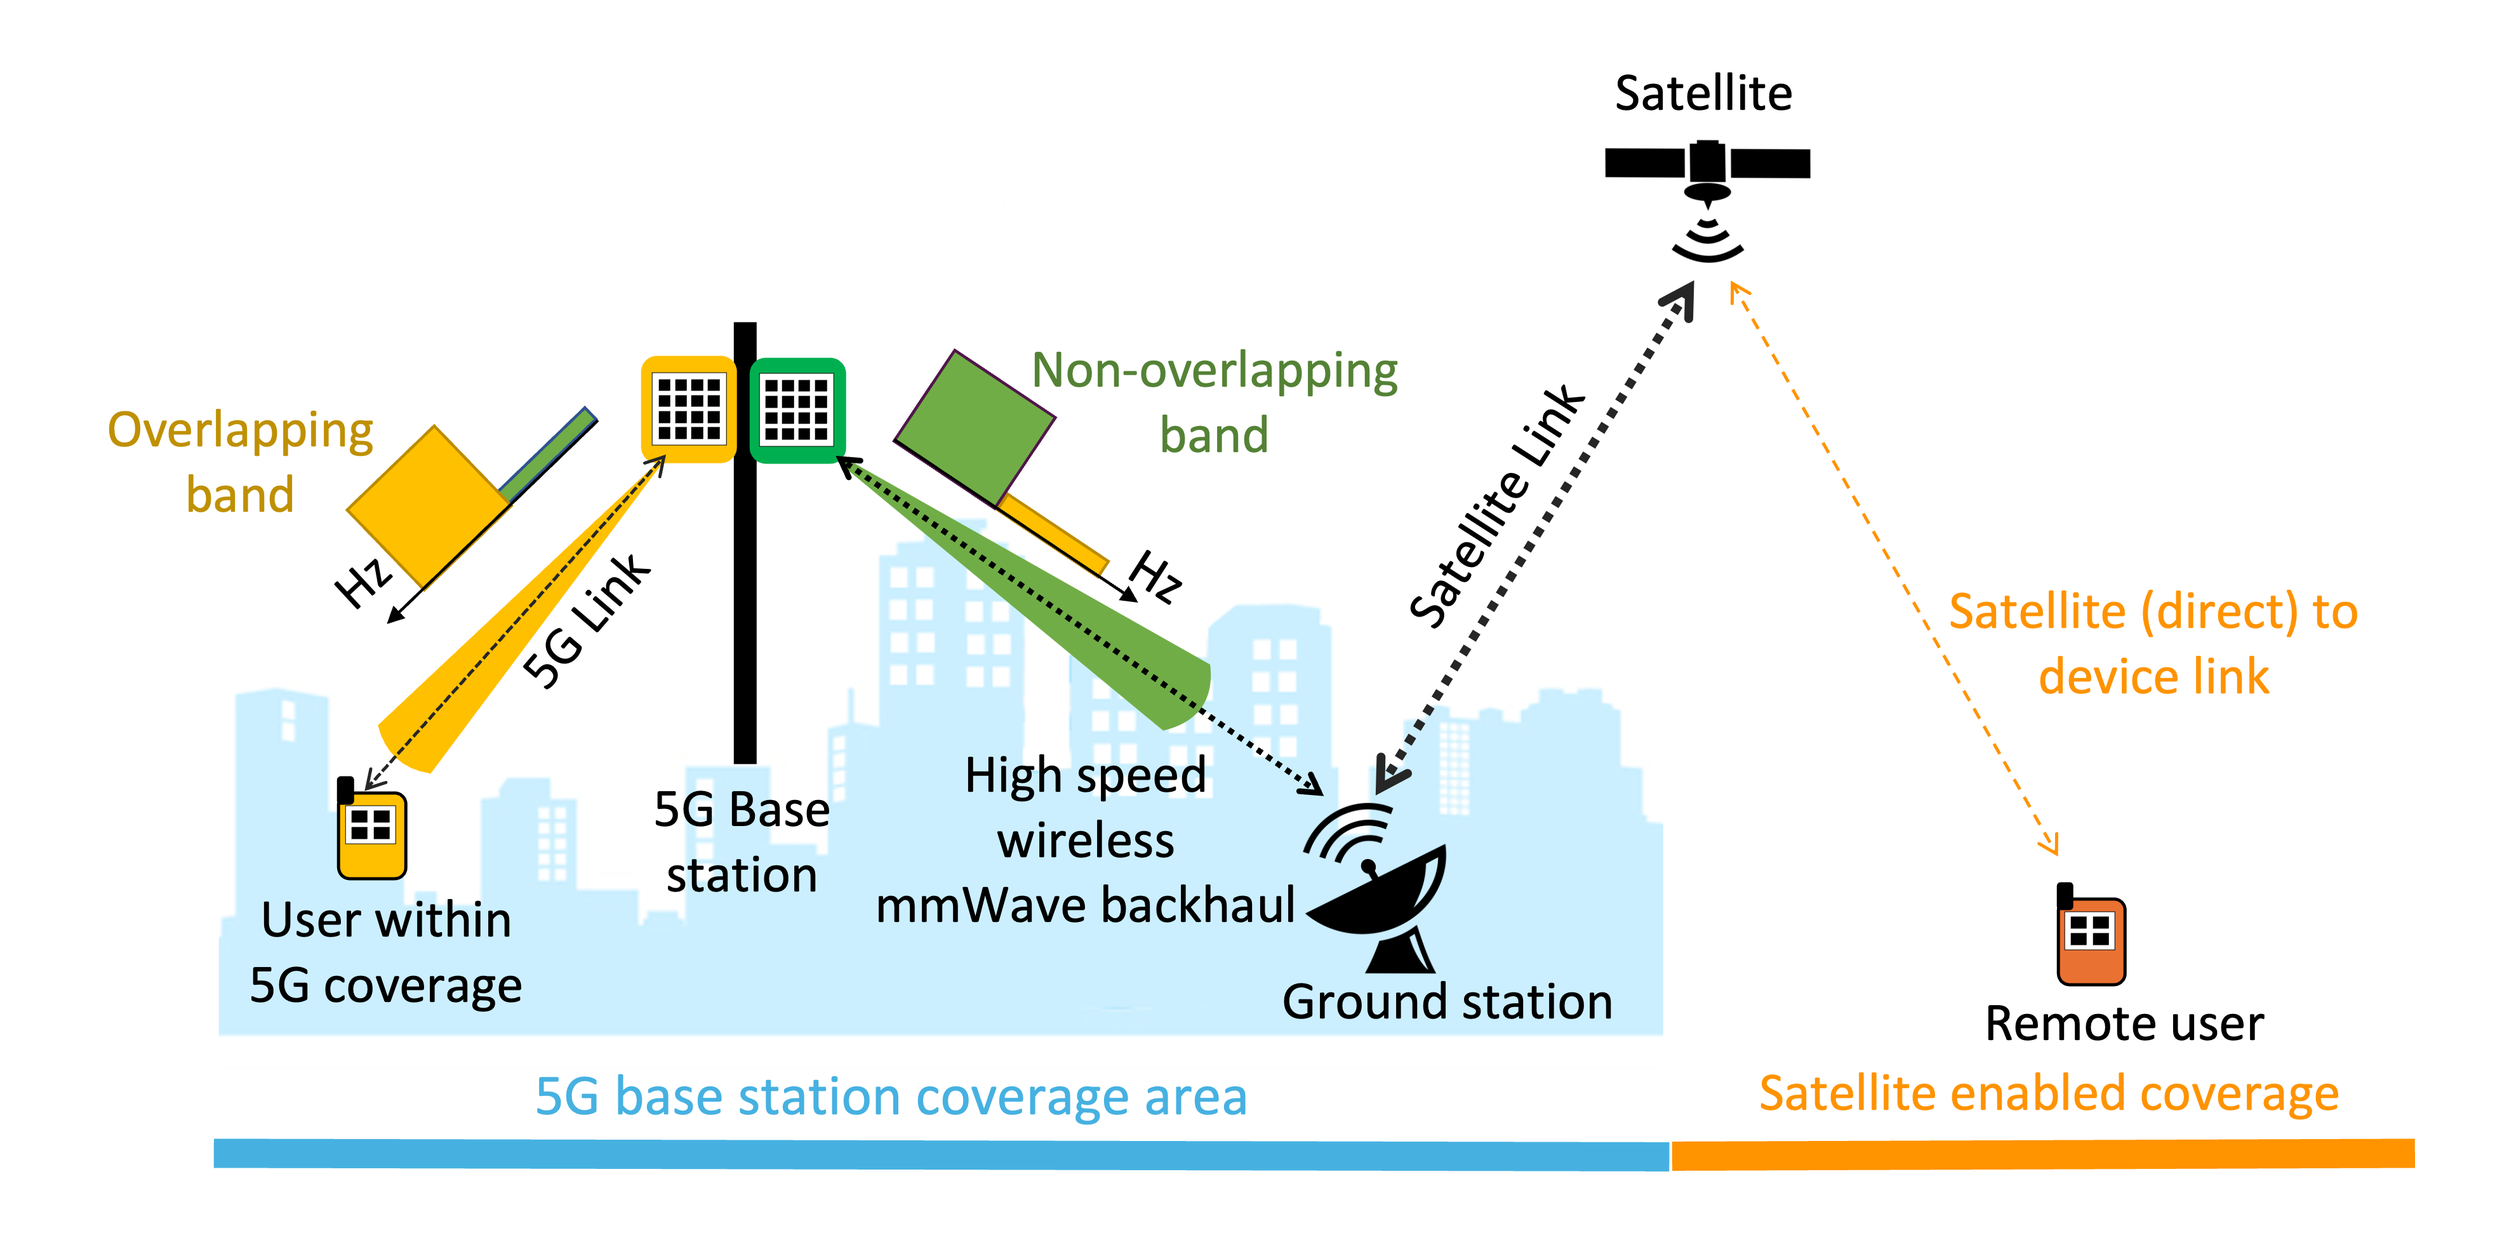
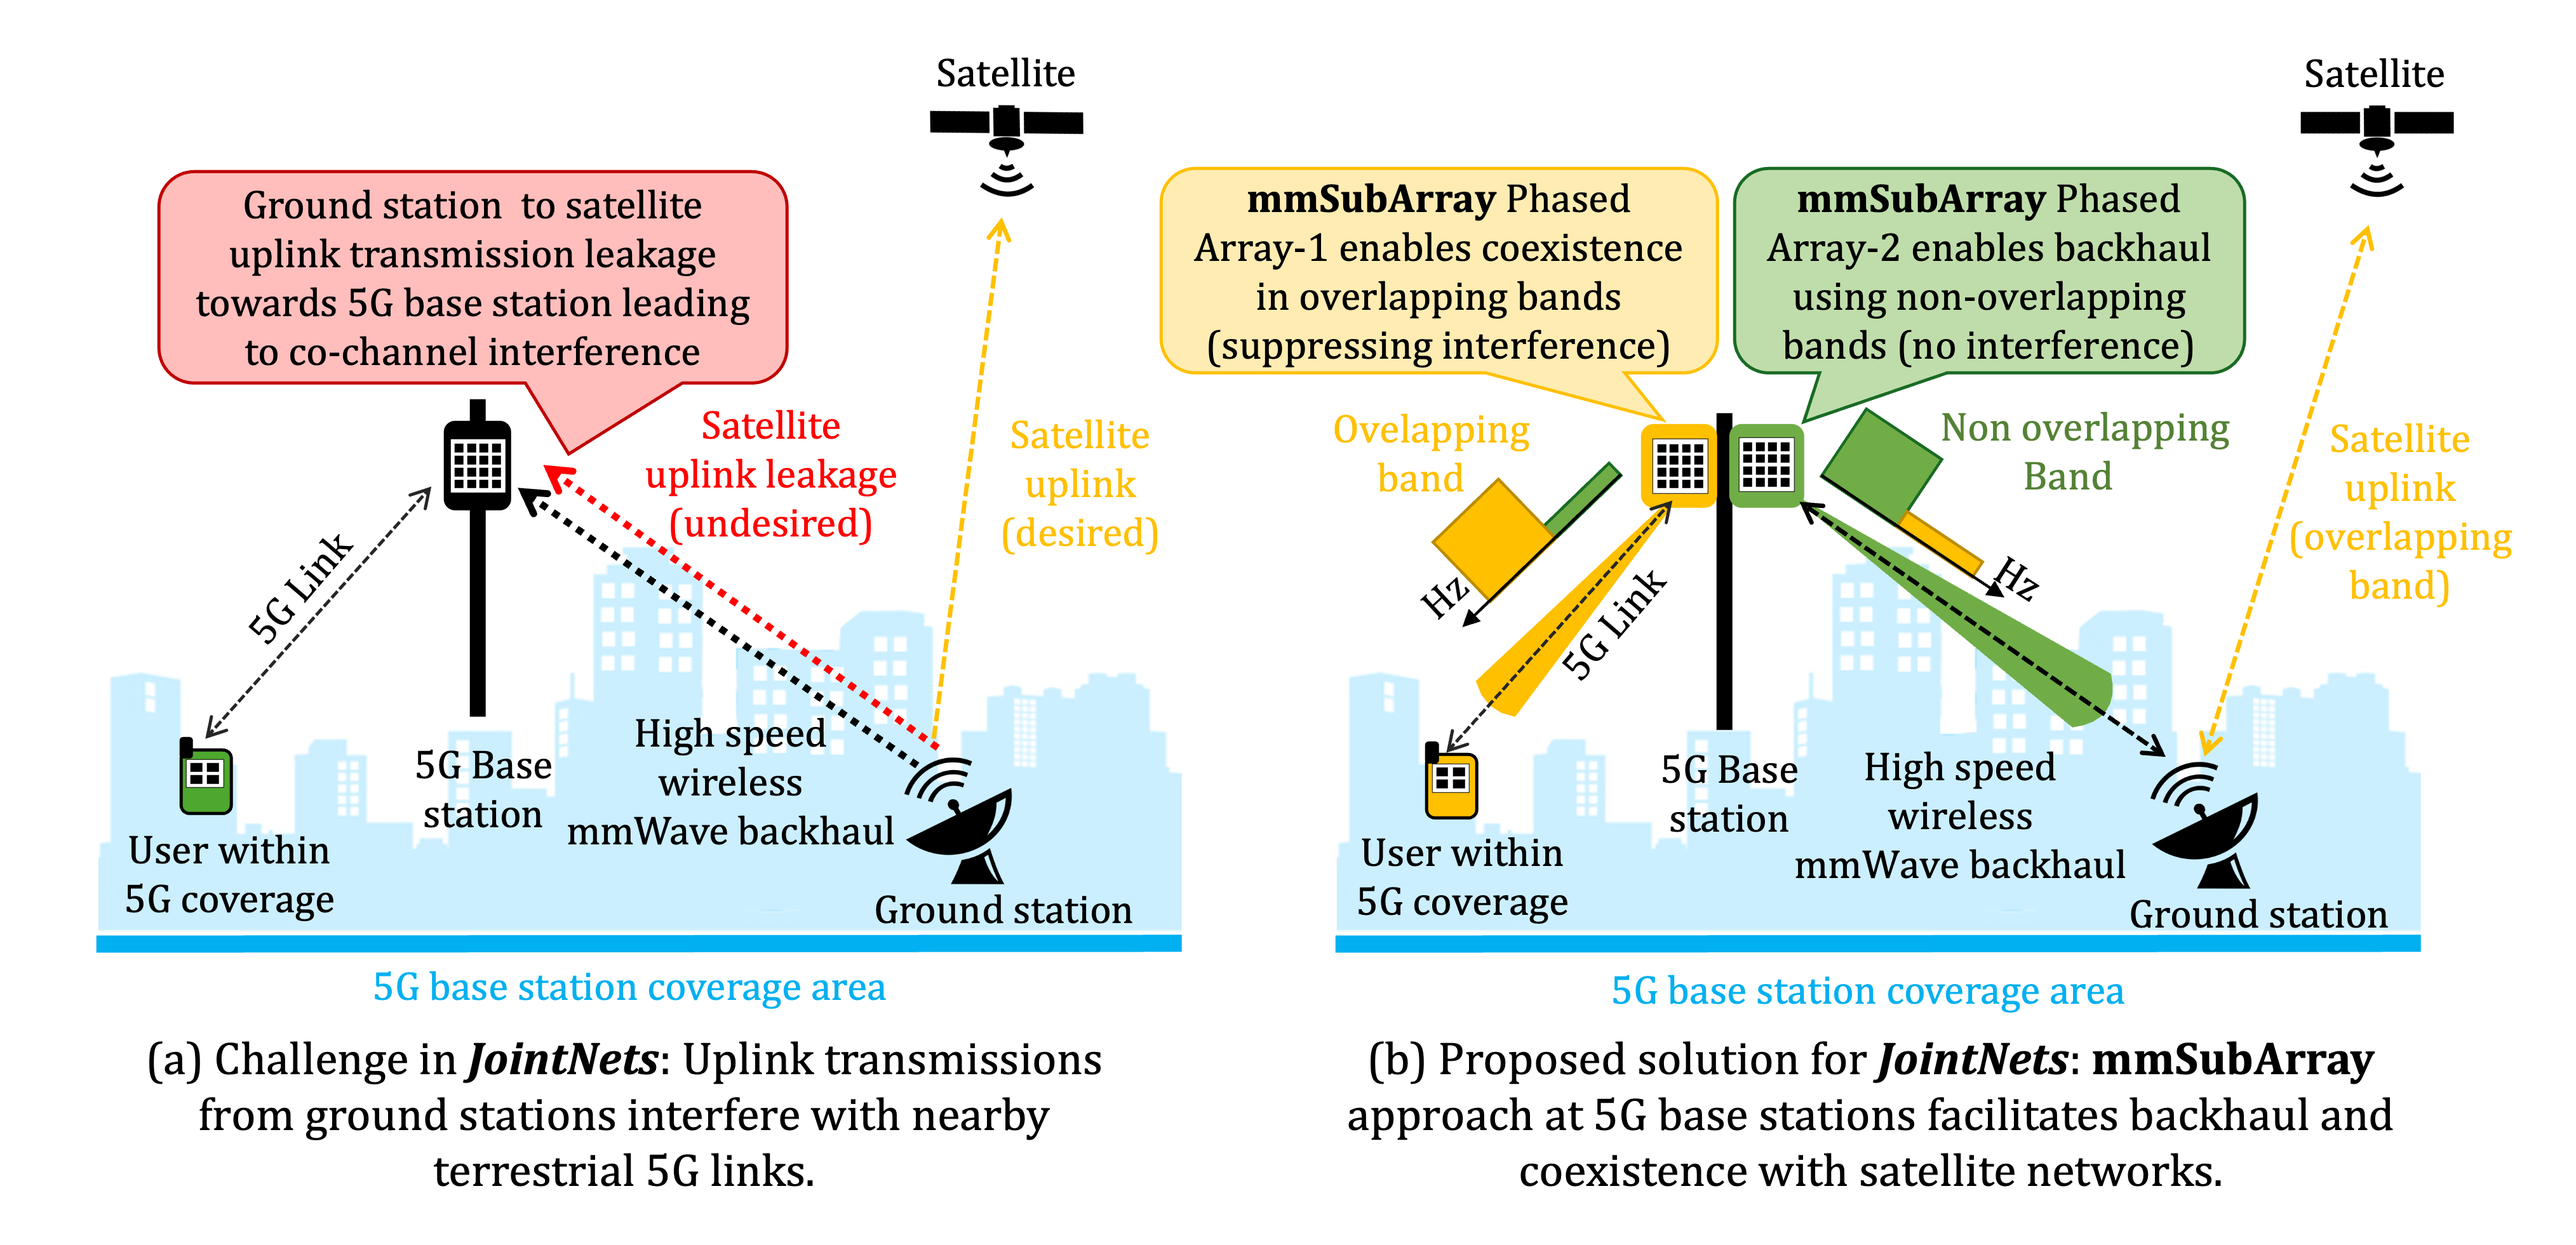
updated content and jointnets and mmsubarray images.

diff --git a/_posts/2024-08-01-mmsubarray.md b/_posts/2024-08-01-mmsubarray.md
@@ -38,13 +38,21 @@ video: https://www.youtube.com/embed/uGWcX8MJM4Y
 #     - content_type: Slides
 #       content_url: https://wcsng.ucsd.edu/files/mmspoof_slides.pdf
 description:  
-    - text: "The future of global connectivity relies on the seamless integration of satellite and terrestrial networks. With advancements enabling terrestrial devices to directly connect to satellites and the potential of high-speed 5G millimeter-wave links for backhauling ground station data, connecting these networks is more critical than ever. Satellites and ground stations can now act as relays between terrestrial base stations and devices, removing coverage barriers and providing global connectivity. However, the significant spectrum overlap between 27.5 to 30.0 GHz leads to co-channel interference for 5G links, severely degrading efficiency or causing complete link failure. Current approaches, such as distance, frequency, and direction separation, often result in spectrum inefficiency and coverage gaps."
-    
+    - text: "The future of global connectivity depends on the seamless integration of satellite and terrestrial networks. Satellites and ground stations can now relay data between terrestrial base stations and remote devices, breaking coverage barriers and enabling global connectivity. However, current satellite-to-device architectures require ground stations with extensive fiber backhaul across difficult terrain, leading to high deployment costs, scalability challenges, and increased latency. To address this, we propose **JointNets**—integrating satellite and terrestrial networks by deploying ground stations within terrestrial coverage areas and using high-speed millimeter-wave links for backhaul. This eliminates the need for long optical fibers, simplifies ground station deployment, enhances scalability, and reduces latency."
       image: /assets/images/mmsubarray/proposed_joint_satellite_5G.png
       image_width: 800 # px (check this image resolution and how it populate on webpage)
       
-    - text: "This paper presents mmSubArray: Array of Sub-band Phased Arrays, a novel solution utilizing commercial off-the-shelf phased arrays to achieve full-spectrum utilization and enable joint satellite and terrestrial networks. Through extensive simulations and real-world measurements, we demonstrate the interference challenges and evaluate the efficacy of our approach. Additionally, we have open-sourced our Python simulator and hardware implementation source codes, providing valuable tools for industrial deployment and future research."
+    - text: "A major challenge in enabling **JointNets** is that ground station to satellite uplink transmissions (27.5 to 30.0 GHz) interfere with 5G links, leading to reduced efficiency or complete link failure. Current approches, such as distance, frequency, and direction separation, often cause spectrum inefficiency and coverage gaps. This paper introduces **mmSubArray**: an array of sub-band phased arrays using commercial off-the-shelf phased arrays to enable full-spectrum utilization and joint satellite-terrestrial networks. The mmSubArray approach splits the bandwidth into overlapping and non-overlapping subbands, with different phased arrays beaming each subband at the base station." 
+    # Additionally, we have open-sourced our Python simulator and hardware implementation source codes, providing valuable tools for industrial deployment and future research."
       image: /assets/images/mmsubarray/proposed_mmsubarray.png
+      image_width: 800 # px (check this image resolution and how it populate on webpage)
+
+    - text: "Enabling Backhaul: Using commercial phased arrays, we demonstrate that simultaneous mmWave transmissions in non-overlapping bands do not suffer significant degradation due to interference. mmSubArray employs one or more phased arrays to beam non-overlapping bands toward interfering ground stations. This allows mmSubArray to enable backhaul for ground stations or support users in interfering directions."
+      image: /assets/images/mmsubarray/proposed_mmsubarray_backhaul.png
+      image_width: 800 # px (check this image resolution and how it populate on webpage)
+
+    - text: "Enabling Coexistence: In the overlapping band, we use the other phased arrays to serve users in non-interfering directions. However, simply beaming in other directions is not sufficient to enable coexistence in many scenarios. We may still have side lobes that fall along the interference directions, causing interference issues. Our key idea is to apply nulling along with beaming in other directions; together, these techniques suppress the interference power below the noise floor and enable coexistence in overlapping bands. Through extensive simulations and real-world measurements, we demonstrate the interference challenges and evaluate the efficacy of our approach." 
+      image: /assets/images/mmsubarray/proposed_mmsubarray_coexistence.png
       image_width: 800 # px (check this image resolution and how it populate on webpage)
     # - text: "<p style='color: red;'>This website is still under construction. Full details will be available after August 3rd, 2024.</p>"
     #   image: /assets/images/mmsubarray/proposed_mmsubarray.pdf
@@ -52,23 +60,18 @@ description:
 # medias:
 #     - type: Team Develops New “Attacker” Device to Improve Autonomous Car Safety
 #       url: https://today.ucsd.edu/story/team-develops-new-attacker-device-to-improve-autonomous-car-safety
-# citation:
-#     - text: "Vennam, R.R., Jain, I.K., Bansal, K., Orozco, J., Shukla, P., Ranganathan, A. and Bharadia, D., 2023, May. mmSpoof: Resilient Spoofing of Automotive Millimeter-wave Radars using Reflect Array. In 2023 IEEE Symposium on Security and Privacy (SP) (pp. 1807-1821). IEEE."
-#       bib: bibtex-link
-#       bibtex: "
-#       <pre xml:space=\"preserve\">
-#  @inproceedings{vennam2023mmspoof,
-
-#   title={mmSpoof: Resilient Spoofing of Automotive Millimeter-wave Radars using Reflect Array},
-
-#   author={Vennam, Rohith Reddy and Jain, Ish Kumar and Bansal, Kshitiz and Orozco, Joshua and Shukla, Puja and Ranganathan, Aanjhan and Bharadia, Dinesh},
-
-#   booktitle={2023 IEEE Symposium on Security and Privacy (SP)},
-#   pages={1807--1821},
-#   year={2023},
-  
-#   organization={IEEE}
-# }
-# </pre>
-# "
+citation:
+    - text: 'Vennam, Rohith Reddy, et al. "mmSubArray: Enabling Joint Satellite and 5G Networks With Full-Spectrum Utilization in Millimeter-Wave Bands." (2024).'
+      bib: bibtex-link
+      bibtex: "
+      <pre xml:space=\"preserve\">
+  @article{vennam2024mmsubarray,
+  title={mmSubArray: Enabling Joint Satellite and 5G Networks With Full-Spectrum Utilization in Millimeter-Wave Bands},
+  author={Vennam, Rohith Reddy and Jain, Ish Kumar and Bhat, Nagarjun and M, Suriyaa and Bharadia, Dinesh},
+  year={2024}
+  organization={smallsat}
+}
+}
+</pre>
+"
 ---
